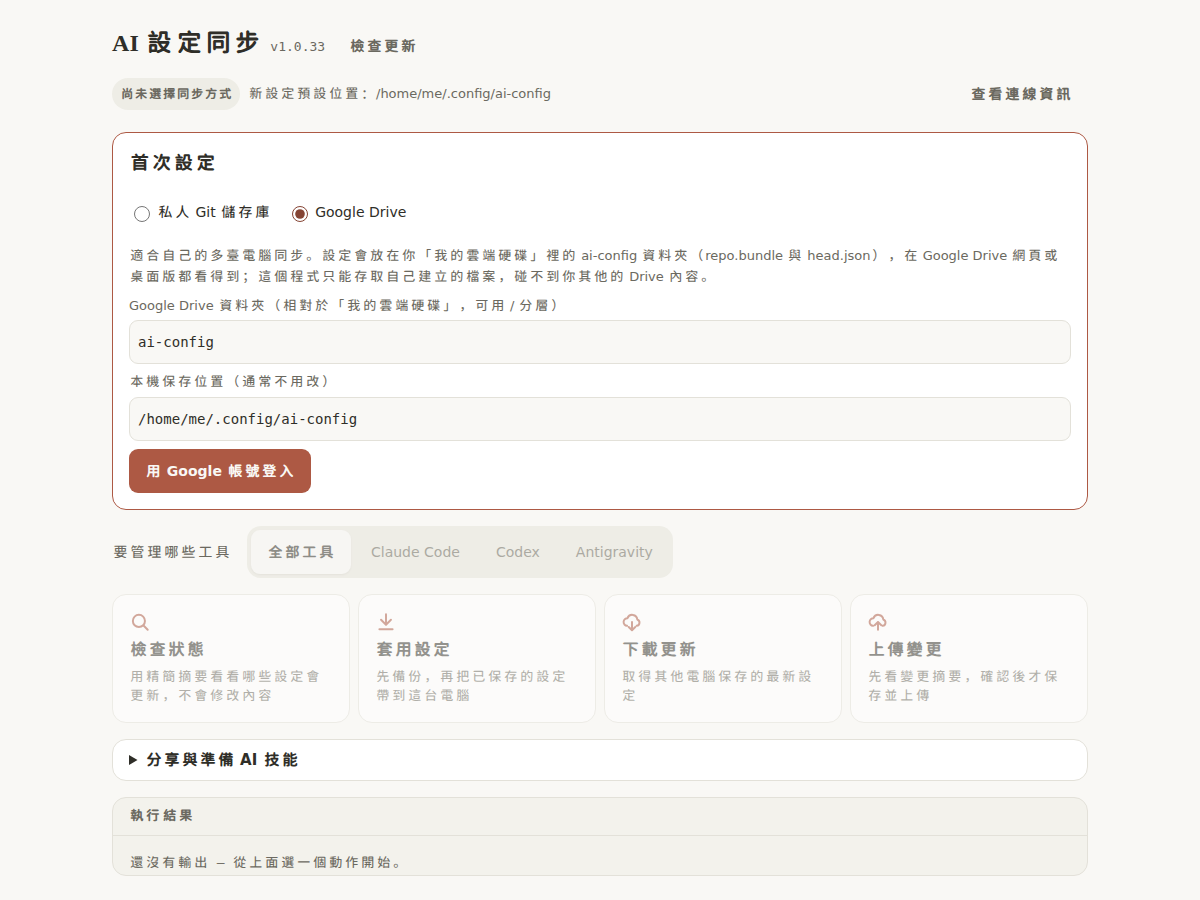
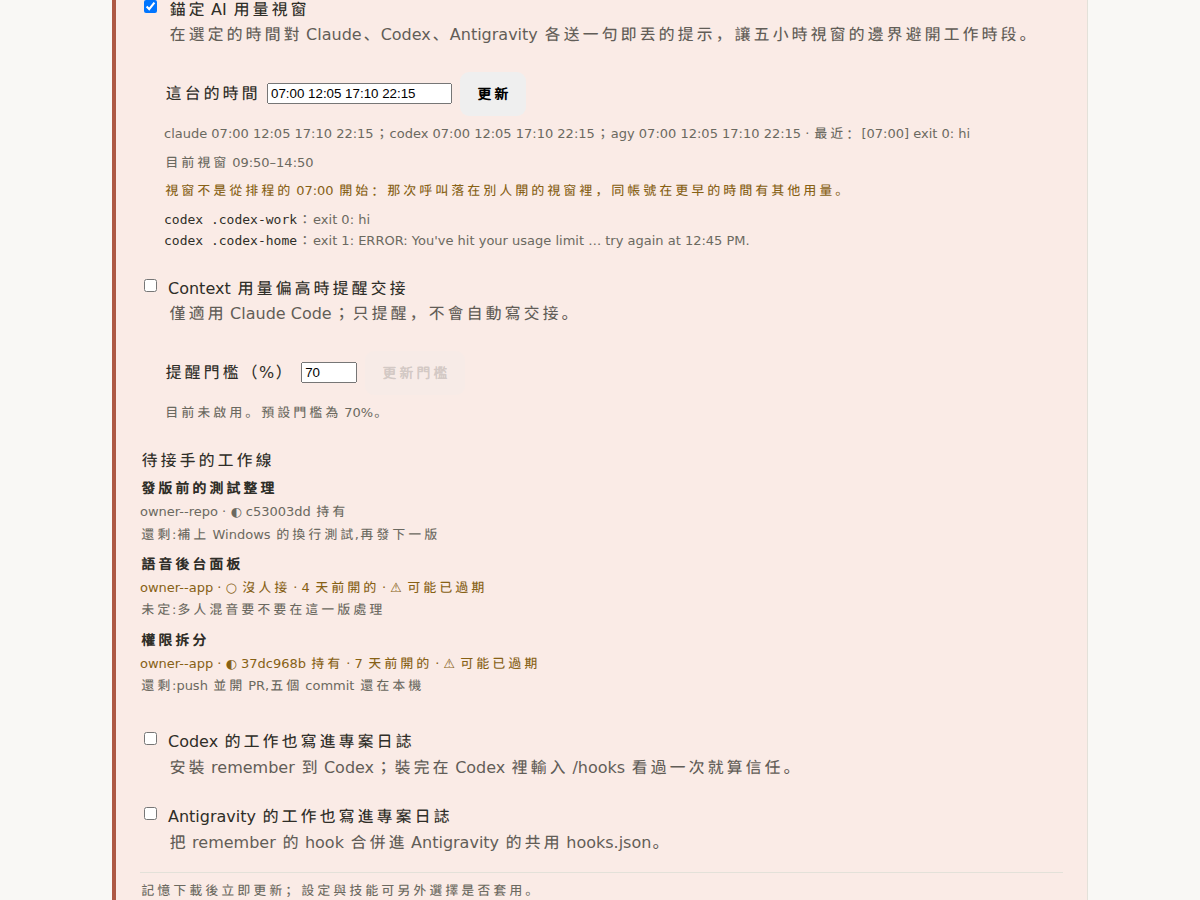
docs(slides): the deck and the app catch up with keepalive and handoff
The Pages deck last moved on 09-21 and still showed a v1.0.33 first-run
screen; it described keepalive as Claude-only and pickup as list then
name. It now covers the three tools, per-account codex calls, the
cheapest-model pick, the real window in status, pickup by session name,
stale marks, takeover and archiving. The screenshot is the memory page
on example data -- this repository is public.

The app's own keepalive heading still said Claude only; it names all
three now.

diff --git a/docs/slides/intro.html b/docs/slides/intro.html
@@ -193,14 +193,14 @@
       <div class="story-copy">
         <h2>換個會話，<span class="highlight">接上同一條線</span></h2>
         <p class="lede">handoff 留下做到哪裡、卡在哪裡，以及下一步。</p>
-        <p class="tiny-note">日誌記錄專案發生過什麼；交接則是一條工作線一份。先列出待接工作，選定後才認領。</p>
+        <p class="tiny-note">日誌記錄專案發生過什麼；交接則是一條工作線一份。交接、清空對話、再接手：同一個會話會自動接回自己留下的那條線。</p>
         <p class="tiny-note">Claude Code 可另開 context 提醒；提醒本身不會自動寫交接。</p>
       </div>
       <div class="picture callouts" aria-label="工作線交接指令">
         <div class="callout"><strong>1 · 留進度</strong><p><code>acg memory handoff write "工作線" "進度與下一步"</code></p></div>
-        <div class="callout"><strong>2 · 列出，再認領</strong><p><code>acg memory handoff list</code><br><code>acg memory handoff claim "工作線"</code></p></div>
+        <div class="callout"><strong>2 · 接手</strong><p><code>acg memory handoff claim</code>　接回這個會話自己的線<br><code>acg memory handoff claim "工作線"</code>　指定別條</p></div>
         <div class="callout"><strong>3 · 做完再結案</strong><p><code>acg memory handoff done "工作線"</code></p></div>
-        <p class="tiny-note">已被其他會話持有時會告知持有者，不會直接搶走。</p>
+        <p class="tiny-note">別人正在做的線不會被搶走；超過一天沒動的可以接手，並說出前一位持有者。久未更新的線標上「可能已過期」，結案滿一個月自動歸檔。</p>
       </div>
     </div>
   </section>
@@ -225,15 +225,15 @@
   <section class="slide">
     <div class="story-grid">
       <div class="story-copy">
-        <h2>選個時間，讓 Claude<span class="highlight">先打聲招呼</span></h2>
-        <p class="lede">keepalive 定時送出一句短提示，協助安排用量視窗的起點。</p>
-        <p class="tiny-note">預設停用，只用這台已登入的 Claude。時間、模型與執行日誌留在本機，各台分別設定。</p>
+        <h2>選個時間，讓 AI<span class="highlight">先打聲招呼</span></h2>
+        <p class="lede">keepalive 定時對 Claude、Codex、Antigravity 送出一句短提示，讓用量視窗從你選的時間開始。</p>
+        <p class="tiny-note">預設停用。每次都挑該工具清單裡最便宜的模型；Codex 有好幾個帳號時，每個帳號各喚醒一次。時間與日誌留在本機，同一個帳號開一台就夠。</p>
       </div>
       <div class="picture callouts" aria-label="keepalive 管理指令">
         <div class="callout"><strong>設定這台的時間</strong><p><code>acg keepalive enable 07:00 12:05</code></p></div>
-        <div class="callout"><strong>查狀態，或立即送一次</strong><p><code>acg keepalive status</code><br><code>acg keepalive send</code></p></div>
+        <div class="callout"><strong>查狀態，或立即送一次</strong><p><code>acg keepalive status</code>　顯示實際的視窗，沒對準排程會提醒<br><code>acg keepalive send</code></p></div>
         <div class="callout"><strong>不需要時停用</strong><p><code>acg keepalive disable</code></p></div>
-        <p class="tiny-note">這是定時呼叫 Claude 的功能，不會同步設定，也不執行你的工作任務。</p>
+        <p class="tiny-note">呼叫失敗時會記下工具自己的錯誤訊息，例如額度用完、何時恢復。它不同步設定，也不執行你的工作任務。</p>
       </div>
     </div>
   </section>
@@ -263,12 +263,12 @@
       <div class="story-copy callouts">
         <h2>也有 Desktop 版，不必打指令</h2>
         <div class="callout"><strong>狀況一眼看見</strong><p>同步方式、登入與變更都在同一個畫面。</p></div>
-        <div class="callout"><strong>記憶與工作交接</strong><p>管理共用記憶、設定交接提醒，調整自動推送與 keepalive。</p></div>
+        <div class="callout"><strong>記憶與工作交接</strong><p>管理共用記憶與自動推送；看得到實際的用量視窗與待接手的工作線。</p></div>
         <div class="callout"><strong>手動上傳先預覽</strong><p>預覽沒問題，再按下確認。</p></div>
       </div>
       <figure class="picture">
-        <img class="gui-shot" src="./gui-desktop.png" width="880" height="680" alt="acg Desktop 實際介面，顯示 Google Drive 同步狀況、變更摘要與上傳前預覽">
-        <figcaption>Desktop 同步畫面示意；記憶與排程管理位於其他分頁。</figcaption>
+        <img class="gui-shot" src="./gui-desktop.png" width="880" height="680" alt="acg Desktop 記憶頁，顯示三個工具的喚醒時間、實際用量視窗與沒對準排程的提醒、Codex 兩個帳號各自的結果，以及待接手的工作線與過期標示">
+        <figcaption>Desktop 記憶頁（範例資料）：用量視窗與待接手的工作線。同步與上傳在主畫面。</figcaption>
       </figure>
     </div>
   </section>

diff --git a/gui/index.html b/gui/index.html
@@ -310,8 +310,8 @@ claude plugin install acg@acg</textarea>
           <label class="autopush-row">
             <input type="checkbox" id="keepalive-toggle" />
             <span class="autopush-text">
-              <span class="autopush-title">錨定 Claude 用量視窗</span>
-              <span class="autopush-hint" id="keepalive-hint">在選定的時間送一句即丟的提示，讓五小時視窗的邊界避開工作時段。</span>
+              <span class="autopush-title">錨定 AI 用量視窗</span>
+              <span class="autopush-hint" id="keepalive-hint">在選定的時間對 Claude、Codex、Antigravity 各送一句即丟的提示，讓五小時視窗的邊界避開工作時段。</span>
             </span>
           </label>
           <div class="autopush-slot" id="keepalive-times-row" hidden>

diff --git a/gui/src/memory.ts b/gui/src/memory.ts
@@ -220,7 +220,7 @@ function renderKeepalive(info: MemoryInfo): void {
   renderKeepaliveWindow(state);
   const hint = state.ccs
     ? `claude-scheduler 的排程還在（${state.ccs}），兩個都開會一天點兩次火。`
-    : "在選定的時間送一句即丟的提示，讓五小時視窗的邊界避開工作時段。";
+    : "在選定的時間對 Claude、Codex、Antigravity 各送一句即丟的提示，讓五小時視窗的邊界避開工作時段。";
   $("#keepalive-hint").textContent = hint;
 
   const row = $("#keepalive-times-row");
